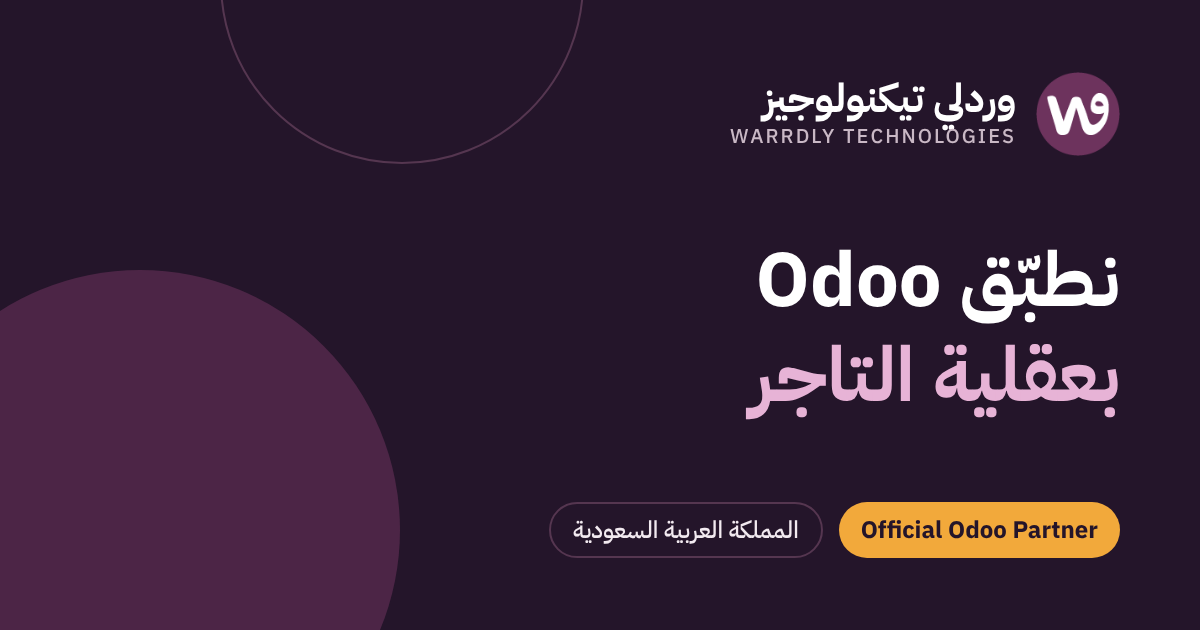
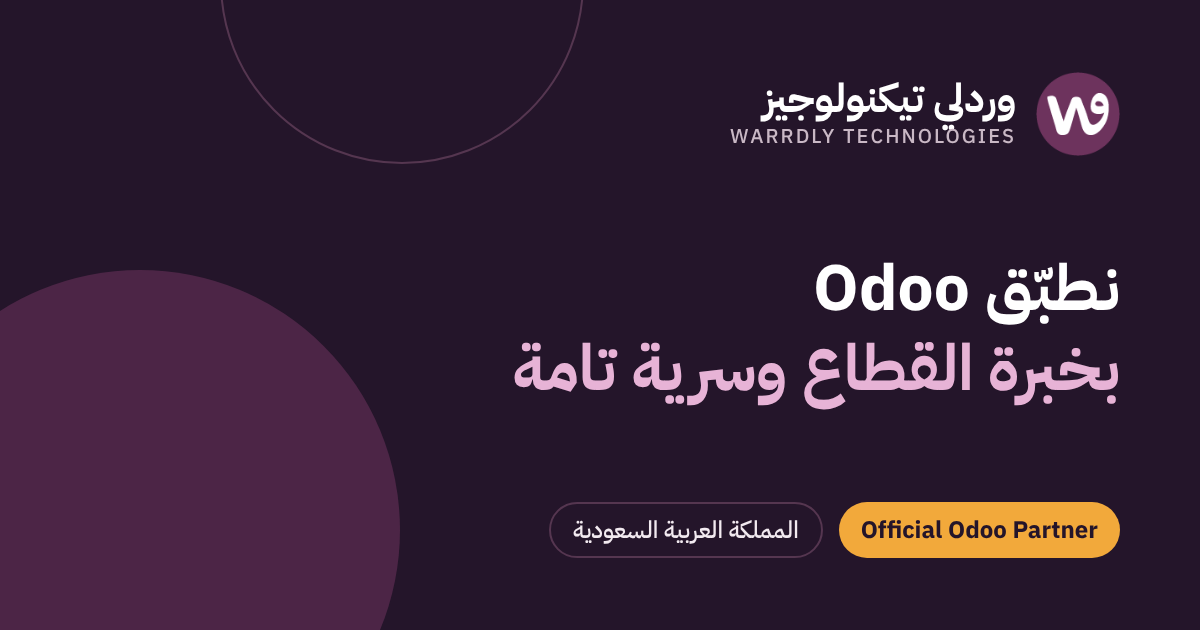
Reposition from 'traders' to expertise + confidentiality
- New hero message: sector expertise and full confidentiality, NDA/ownership points
- Replace own-company case study with a Trust & Confidentiality section
  (NDA, system in client's name, limited access, audit log, test data, no sharing)
- Remove 'we are traders / our own business' wording from integrations,
  ready-built solutions, blog and services; anonymize client projects
- Regenerate share image with the new message

Claude-Session: https://claude.ai/code/session_01CvUouUPrWfJVDr9e9r4b2b

Changed region(s): [[0.4317, 0.5429, 0.9558, 0.6635], [0.6167, 0.3921, 0.9558, 0.5127]]

diff --git a/content/capabilities.ts b/content/capabilities.ts
@@ -50,12 +50,12 @@ export const capAr: Capabilities = {
   home: {
     eyebrow: "المنصات والتكاملات",
     title: "كل قنوات بيعك في مخزون واحد",
-    text: "نربط Odoo بمنصات البيع الكبرى في السعودية والخليج، فتصل الطلبات تلقائياً، ويتحدّث المخزون والأسعار على كل منصة من مكان واحد. هذه التكاملات طوّرناها ونشغّلها يومياً في أعمالنا.",
+    text: "نربط Odoo بمنصات البيع الكبرى في السعودية والخليج، فتصل الطلبات تلقائياً، ويتحدّث المخزون والأسعار على كل منصة من مكان واحد. هذه التكاملات طوّرناها واختبرناها في بيئات تشغيل فعلية.",
     channels: ["أمازون", "نون", "ترينديول", "سلة", "زد", "وردلي B2B", "Google Shopping", "أرامكس", "J&T Express"],
     cta: "تفاصيل التكاملات",
     addonsEyebrow: "حلول طوّرناها",
     addonsTitle: "أدوات جاهزة تضيفها إلى Odoo",
-    addonsText: "مديولات بنيناها لاحتياجات شركات التوزيع في السعودية، ونستخدمها في عملياتنا اليومية قبل أن نقدمها لعملائنا.",
+    addonsText: "مديولات طوّرناها لاحتياجات شركات التوزيع في السعودية، واختُبرت في تشغيل فعلي قبل أن نقدمها لعملائنا.",
     addonsCta: "استعرض الحلول الجاهزة",
   },
   integrations: {
@@ -65,7 +65,7 @@ export const capAr: Capabilities = {
     eyebrow: "التكاملات",
     title: "اربط Odoo بكل منصة تبيع عليها",
     intro:
-      "طوّرنا تكاملات Odoo مع أهم منصات التجارة الإلكترونية وشركات الشحن في السعودية، ونشغّلها يومياً في أعمالنا. النتيجة: مخزون واحد، وأسعار موحّدة، وطلبات تدخل النظام دون إدخال يدوي.",
+      "طوّرنا تكاملات Odoo مع أهم منصات التجارة الإلكترونية وشركات الشحن في السعودية، واختبرناها في بيئات تشغيل فعلية. النتيجة: مخزون واحد، وأسعار موحّدة، وطلبات تدخل النظام دون إدخال يدوي.",
     stats: [
       { value: "7", label: "منصات بيع ومتاجر" },
       { value: "2", label: "شركات شحن" },
@@ -258,9 +258,9 @@ export const capAr: Capabilities = {
     metaDescription:
       "مديولات Odoo طوّرناها لشركات التوزيع في السعودية: اعتماد البيع حسب هامش الربح، توقّع المشتريات، الجرد الآمن، تقييم الأداء، وتطبيقات الجوال.",
     eyebrow: "حلولنا الجاهزة",
-    title: "أدوات طوّرناها لأننا احتجناها",
+    title: "أدوات مُجرّبة في التشغيل الفعلي",
     intro:
-      "كل حل في هذه الصفحة بدأ بمشكلة واجهناها في شركة توزيع حقيقية. بنيناه على Odoo، وشغّلناه في عملياتنا اليومية، ثم أصبح جاهزاً لعملائنا.",
+      "كل حل في هذه الصفحة طُوّر لمعالجة مشكلة حقيقية لدى شركات التوزيع السعودية، واختُبر في بيئة تشغيل فعلية قبل أن نقدمه لعملائنا.",
     note: "نهيّئ كل حل على طريقة عمل شركتك، ويمكن تطويره حسب احتياجك.",
     groups: [
       {
@@ -425,12 +425,12 @@ export const capEn: Capabilities = {
   home: {
     eyebrow: "Platforms & integrations",
     title: "Every sales channel on one inventory",
-    text: "We connect Odoo to the major marketplaces in Saudi Arabia and the Gulf, so orders flow in automatically and stock and prices update on every platform from one place. We built these integrations and run them every day in our own business.",
+    text: "We connect Odoo to the major marketplaces in Saudi Arabia and the Gulf, so orders flow in automatically and stock and prices update on every platform from one place. We built these integrations and tested them in live operations.",
     channels: ["Amazon", "noon", "Trendyol", "Salla", "Zid", "Warrdly B2B", "Google Shopping", "Aramex", "J&T Express"],
     cta: "Integration details",
     addonsEyebrow: "Built by us",
     addonsTitle: "Ready-made tools you can add to Odoo",
-    addonsText: "Modules we built for Saudi distribution companies and use in our own daily operations before offering them to clients.",
+    addonsText: "Modules we built for Saudi distribution companies and proved in live operations before offering them to clients.",
     addonsCta: "Browse ready-built solutions",
   },
   integrations: {
@@ -440,7 +440,7 @@ export const capEn: Capabilities = {
     eyebrow: "Integrations",
     title: "Connect Odoo to every platform you sell on",
     intro:
-      "We built Odoo integrations with the leading e-commerce platforms and couriers in Saudi Arabia, and we run them every day in our own business. The result: one inventory, consistent prices, and orders that reach the system with no manual entry.",
+      "We built Odoo integrations with the leading e-commerce platforms and couriers in Saudi Arabia, and tested them in live operations. The result: one inventory, consistent prices, and orders that reach the system with no manual entry.",
     stats: [
       { value: "7", label: "Marketplaces & stores" },
       { value: "2", label: "Couriers" },
@@ -617,9 +617,9 @@ export const capEn: Capabilities = {
     metaDescription:
       "Odoo modules we built for Saudi distributors: margin-based sales approval, purchase forecasting, secure stock counts, KPI evaluation and mobile apps.",
     eyebrow: "Ready-built solutions",
-    title: "Tools we built because we needed them",
+    title: "Tools proven in live operations",
     intro:
-      "Every solution on this page started with a problem we faced in a real distribution company. We built it on Odoo, ran it in our own daily operations, and now it's ready for our clients.",
+      "Every solution on this page was built to solve a real problem for Saudi distribution companies, and tested in live operations before we offered it to clients.",
     note: "We configure each solution to how your company works, and can extend it to your needs.",
     groups: [
       {

diff --git a/content/digital.ts b/content/digital.ts
@@ -41,7 +41,7 @@ export const digitalAr: DigitalContent = {
   eyebrow: "الخدمات التقنية",
   title: "شريكك التقني من الفكرة حتى الإطلاق",
   intro:
-    "إلى جانب Odoo، نصمم ونطوّر المواقع والمتاجر الإلكترونية ومنصات الأعمال وتطبيقات الجوال، ونربطها بأنظمتك لتعمل كمنظومة واحدة. بنينا منصة وردلي B2B وتطبيقات جاسمين بيوتي، ونقدم الخبرة نفسها لعملائنا.",
+    "إلى جانب Odoo، نصمم ونطوّر المواقع والمتاجر الإلكترونية ومنصات الأعمال وتطبيقات الجوال، ونربطها بأنظمتك لتعمل كمنظومة واحدة. بنينا منصات B2B وتطبيقات جوال تعمل يومياً في السوق السعودي.",
   primary: "ناقش مشروعك",
   secondary: "استعرض أعمالنا",
   pillars: [
@@ -139,7 +139,7 @@ export const digitalAr: DigitalContent = {
     },
   ],
   workTitle: "من أعمالنا",
-  workIntro: "منتجات بنيناها ونشغّلها يومياً، وليست مجرد نماذج عرض.",
+  workIntro: "منتجات تعمل في السوق فعلياً. نعرض مشاريع العملاء دون أسماء أو بيانات، التزاماً بالسرية.",
   work: [
     {
       name: "منصة وردلي B2B",
@@ -149,13 +149,13 @@ export const digitalAr: DigitalContent = {
       url: "https://warrdly.com",
     },
     {
-      name: "تطبيق جاسمين بيوتي B2B",
+      name: "تطبيق B2B لموزّع منتجات تجميل",
       type: "تطبيق جوال لعملاء الجملة",
       text: "تطبيق للعملاء التجاريين: كتالوج بأسعار العميل، سلة وطلبات، مرتجعات، كشف حساب، دفع إلكتروني، وتتبّع شحنات أرامكس وJ&T.",
       tags: ["تطبيق جوال", "واجهة API", "شحن ودفع"],
     },
     {
-      name: "تطبيق بوابة الموظفين",
+      name: "تطبيق موظفين لشركة توزيع",
       type: "تطبيق جوال داخلي",
       text: "حضور من الجوال مع التحقق برمز QR لموقع العمل، تتبّع مسار المناديب، مهام وموافقات، ومؤشرات أداء المبيعات.",
       tags: ["تطبيق جوال", "موارد بشرية", "Odoo"],
@@ -209,7 +209,7 @@ export const digitalEn: DigitalContent = {
   eyebrow: "Technology services",
   title: "Your technology partner from idea to launch",
   intro:
-    "Beyond Odoo, we design and build websites, online stores, business platforms and mobile apps, and connect them to your systems so everything works as one. We built the Warrdly B2B marketplace and Jasmine Beauty's apps, and we bring the same experience to our clients.",
+    "Beyond Odoo, we design and build websites, online stores, business platforms and mobile apps, and connect them to your systems so everything works as one. We have built B2B platforms and mobile apps that run every day in the Saudi market.",
   primary: "Discuss your project",
   secondary: "See our work",
   pillars: [
@@ -235,11 +235,11 @@ export const digitalEn: DigitalContent = {
     { key: "consulting", icon: "cap", title: "Technology consulting", text: "We help you choose the right technology before you spend on it.", items: ["Current systems assessment", "Digital transformation roadmap", "Platform and vendor selection", "Project requirements writing"] },
   ],
   workTitle: "Our work",
-  workIntro: "Products we built and run every day — not just demos.",
+  workIntro: "Products running in the market today. Client projects are shown without names or data, in line with our confidentiality commitment.",
   work: [
     { name: "Warrdly B2B marketplace", type: "Wholesale marketplace", text: "A health and beauty wholesale platform serving shops and pharmacies in Saudi Arabia and the Gulf, connected to Odoo for stock, price and order sync.", tags: ["Web platform", "B2B", "Odoo integration"], url: "https://warrdly.com" },
-    { name: "Jasmine Beauty B2B app", type: "Mobile app for wholesale customers", text: "An app for business customers: catalog at customer prices, cart and orders, returns, statements, online payment and Aramex/J&T shipment tracking.", tags: ["Mobile app", "API", "Shipping & payments"] },
-    { name: "Employee portal app", type: "Internal mobile app", text: "Mobile attendance with worksite QR verification, sales rep route tracking, tasks and approvals, and sales KPIs.", tags: ["Mobile app", "HR", "Odoo"] },
+    { name: "B2B app for a beauty distributor", type: "Mobile app for wholesale customers", text: "An app for business customers: catalog at customer prices, cart and orders, returns, statements, online payment and Aramex/J&T shipment tracking.", tags: ["Mobile app", "API", "Shipping & payments"] },
+    { name: "Employee app for a distribution company", type: "Internal mobile app", text: "Mobile attendance with worksite QR verification, sales rep route tracking, tasks and approvals, and sales KPIs.", tags: ["Mobile app", "HR", "Odoo"] },
     { name: "Warrdly Technologies website", type: "Bilingual company website", text: "The site you're browsing: Arabic and English, fast, search-optimized, with an interactive assessment and CRM-connected forms.", tags: ["Website", "SEO", "CRM integration"] },
   ],
   stackTitle: "Technologies we work with",

diff --git a/content/ar.ts b/content/ar.ts
@@ -26,12 +26,12 @@ export const ar = {
   hero: {
     badge: "Official Odoo Partner",
     title1: "نطبّق Odoo",
-    title2: "بعقلية التاجر",
+    title2: "بخبرة القطاع وسرية تامة",
     subtitle:
-      "نحن تجار قبل أن نكون شركة تقنية. نعرف المستودع والمندوب والفاتورة الضريبية لأننا نعيشها كل يوم، ولهذا نبني لك نظام Odoo يعمل من اليوم الأول.",
+      "فريق متخصص في قطاعات التوزيع والجملة والتجزئة. نفهم دورة عملك من المستودع إلى الفاتورة الضريبية، ونبني لك نظام Odoo يعمل من اليوم الأول، مع التزام كامل بسرية بياناتك.",
     primary: "احجز استشارة مجانية",
     secondary: "اختبر جاهزية شركتك",
-    points: ["فريق سعودي يتحدث لغتك", "متوافق مع هيئة الزكاة والضريبة والجمارك", "دعم مستمر بعد الإطلاق"],
+    points: ["اتفاقية سرية (NDA) مع كل عميل", "نظامك وبياناتك ملكك بالكامل", "متوافق مع هيئة الزكاة والضريبة والجمارك"],
   },
   dashboard: {
     title: "لوحة المبيعات والمخزون",
@@ -73,7 +73,7 @@ export const ar = {
       title: "التجميل والعناية الشخصية",
       short: "تتبّع التشغيلات وتواريخ الصلاحية، العروض الترويجية، وإدارة الوكالات والعلامات.",
       intro:
-        "نعمل في قطاع التجميل منذ سنوات، ونعرف أن الصلاحية والتشغيلة والعرض الترويجي هي ما يصنع الربح أو الخسارة. نهيّئ Odoo على هذه التفاصيل.",
+        "خبرتنا في قطاع التجميل علّمتنا أن الصلاحية والتشغيلة والعرض الترويجي هي ما يصنع الربح أو الخسارة. نهيّئ Odoo على هذه التفاصيل.",
       challenges: [
         "منتجات قاربت صلاحيتها على الانتهاء دون تنبيه مبكر",
         "صعوبة تتبّع التشغيلة عند سحب منتج أو شكوى عميل",
@@ -168,10 +168,18 @@ export const ar = {
     ],
   },
   caseStudy: {
-    eyebrow: "من تجربتنا",
-    title: "جاسمين بيوتي: شركة توزيع تجميل تدير أعمالها على Odoo",
-    text: "جاسمين بيوتي للتجارة شركة توزيع منتجات تجميل وعناية شخصية في جدة، تدير مبيعاتها ومستودعاتها وفواتيرها على Odoo. ما نتعلمه من تشغيلها كل يوم هو ما ننقله إلى عملائنا: حلول مجرّبة في السوق السعودي، لا نظريات.",
-    cta: "تحدث معنا عن تجربتك",
+    eyebrow: "الثقة والسرية",
+    title: "بياناتك أمانة، ونظامك ملكك",
+    text: "نعرف أن أرقام المبيعات والتكاليف والعملاء هي أهم أسرار أي شركة. لذلك نعمل وفق التزامات واضحة ومكتوبة قبل أن نطّلع على أي بيانات.",
+    cta: "اطلب نموذج اتفاقية السرية",
+    items: [
+      { icon: "shield", title: "اتفاقية سرية قبل البدء", text: "نوقّع اتفاقية عدم إفصاح (NDA) قبل الاطلاع على أي بيانات أو أنظمة لديك." },
+      { icon: "box", title: "النظام باسمك أنت", text: "اشتراك Odoo وقاعدة البيانات مسجّلان باسم شركتك، ولك كامل الملكية والتحكم." },
+      { icon: "gear", title: "صلاحيات محدودة ومؤقتة", text: "يعمل على مشروعك الفريق المكلّف به فقط، وتُلغى صلاحياتنا عند التسليم أو متى طلبت." },
+      { icon: "check", title: "كل دخول مُسجّل", text: "يحتفظ النظام بسجل لكل من دخل وما عدّله، وتستطيع مراجعته في أي وقت." },
+      { icon: "swap", title: "بيانات اختبار لا بيانات حقيقية", text: "نطوّر ونختبر على نسخ مموّهة كلما أمكن، ولا ننقل بياناتك خارج بيئتك." },
+      { icon: "code", title: "لا نشارك بياناتك أبداً", text: "لا نستخدم بيانات أي عميل في مشروع آخر، ولا نعرض أسماء عملائنا أو أرقامهم دون إذن مكتوب." },
+    ],
   },
   integrations: {
     title: "نربط Odoo بالأدوات التي تستخدمها في السوق السعودي",

diff --git a/content/en.ts b/content/en.ts
@@ -28,12 +28,12 @@ export const en: Dict = {
   hero: {
     badge: "Official Odoo Partner",
     title1: "We implement Odoo",
-    title2: "with a trader's mindset",
+    title2: "with expertise and confidentiality",
     subtitle:
-      "We were traders before we were a tech company. We know the warehouse, the sales rep and the tax invoice because we live them every day — so we build you an Odoo system that works from day one.",
+      "A team specialized in distribution, wholesale and retail. We understand your cycle from the warehouse to the tax invoice and build you an Odoo system that works from day one — with a full commitment to keeping your data confidential.",
     primary: "Book a free consultation",
     secondary: "Take the readiness test",
-    points: ["A Saudi team that speaks your language", "ZATCA compliant", "Ongoing support after go-live"],
+    points: ["An NDA with every client", "Your system and data are fully yours", "ZATCA compliant"],
   },
   dashboard: {
     title: "Sales & inventory dashboard",
@@ -75,7 +75,7 @@ export const en: Dict = {
       title: "Beauty & Personal Care",
       short: "Lot and expiry tracking, promotions, and agency and brand management.",
       intro:
-        "We have worked in beauty distribution for years, and we know that expiry dates, lots and promotions make the difference between profit and loss. We configure Odoo around those details.",
+        "Our experience in the beauty sector taught us that expiry dates, lots and promotions make the difference between profit and loss. We configure Odoo around those details.",
       challenges: [
         "Products nearing expiry with no early warning",
         "Hard to trace lots for recalls or customer complaints",
@@ -170,10 +170,18 @@ export const en: Dict = {
     ],
   },
   caseStudy: {
-    eyebrow: "From our own experience",
-    title: "Jasmine Beauty: a beauty distributor running its business on Odoo",
-    text: "Jasmine Beauty Trading is a beauty and personal care distributor in Jeddah that runs its sales, warehouses and invoicing on Odoo. What we learn from operating it every day is what we bring to our clients: solutions proven in the Saudi market, not theory.",
-    cta: "Talk to us about your business",
+    eyebrow: "Trust & confidentiality",
+    title: "Your data is held in trust, and your system is yours",
+    text: "We know that sales figures, costs and customer lists are a company's most sensitive information. That's why we work under clear, written commitments before we see any data.",
+    cta: "Request our NDA template",
+    items: [
+      { icon: "shield", title: "An NDA before we start", text: "We sign a non-disclosure agreement before accessing any of your data or systems." },
+      { icon: "box", title: "The system is in your name", text: "The Odoo subscription and database are registered to your company, with full ownership and control." },
+      { icon: "gear", title: "Limited, temporary access", text: "Only the team assigned to your project works on it, and our access is revoked at handover or whenever you ask." },
+      { icon: "check", title: "Every login is logged", text: "The system records who signed in and what they changed, and you can review it at any time." },
+      { icon: "swap", title: "Test data, not real data", text: "Wherever possible we build and test on anonymized copies, and never move your data outside your environment." },
+      { icon: "code", title: "We never share your data", text: "We never use one client's data on another project, and never publish client names or figures without written permission." },
+    ],
   },
   integrations: {
     title: "We connect Odoo to the tools you use in the Saudi market",

diff --git a/content/blog.ts b/content/blog.ts
@@ -226,7 +226,7 @@ export const posts: Post[] = [
           type: "p",
           text: "أمازون ونون يقدمان نموذجين: أن تشحن الطلب من مستودعك، أو أن تخزّن بضاعتك في مستودعات المنصة وتتولى هي الشحن (FBA في أمازون وFBN في نون). في Odoo نفصل كل نموذج في مستودع مستقل، فتعرف بدقة ما هو موجود عندك وما هو موجود لدى المنصة، وتُسجَّل الشحنات المرسلة إلى المنصة كتحويلات مخزنية واضحة.",
         },
-        { type: "h2", text: "نصائح من تجربتنا اليومية" },
+        { type: "h2", text: "نصائح عملية من مشاريع التكامل" },
         {
           type: "ul",
           items: [
@@ -239,7 +239,7 @@ export const posts: Post[] = [
         },
         {
           type: "note",
-          text: "نحن نبيع على أمازون ونون وترينديول وسلة من Odoo كل يوم، والتكاملات التي نقدمها لعملائنا هي نفسها التي نشغّلها في أعمالنا.",
+          text: "التكاملات التي نقدمها مع أمازون ونون وترينديول وسلة اختُبرت في بيئات تشغيل فعلية، وكل تكامل يُنفّذ على حسابات العميل نفسه وبصلاحيات محدودة.",
         },
         { type: "h2", text: "متى تحتاج التكامل؟" },
         {
@@ -275,7 +275,7 @@ export const posts: Post[] = [
           type: "p",
           text: "Amazon and noon both offer two models: you ship from your own warehouse, or you store stock in the platform's warehouses and they ship (FBA on Amazon, FBN on noon). In Odoo we model each as a separate warehouse, so you know exactly what you hold and what the platform holds, and shipments to the platform are clear stock transfers.",
         },
-        { type: "h2", text: "Tips from daily operation" },
+        { type: "h2", text: "Practical tips from integration projects" },
         {
           type: "ul",
           items: [
@@ -288,7 +288,7 @@ export const posts: Post[] = [
         },
         {
           type: "note",
-          text: "We sell on Amazon, noon, Trendyol and Salla from Odoo every day. The integrations we offer clients are the same ones we run in our own business.",
+          text: "Our Amazon, noon, Trendyol and Salla integrations are proven in live operations, and every integration runs on the client's own accounts with limited access.",
         },
         { type: "h2", text: "When do you need it?" },
         {

diff --git a/app/[locale]/page.tsx b/app/[locale]/page.tsx
@@ -229,17 +229,37 @@ export default async function Home({ params }: { params: Promise<{ locale: strin
         </Container>
       </section>
 
-      {/* Case study */}
-      <section id="case" className="scroll-mt-24 bg-transparent">
-        <Container className="py-20 sm:py-24">
-          <div className="flex flex-col gap-5 rounded-3xl glass-tint p-8 sm:p-14">
-            <span className="text-[15px] font-semibold text-plum-dark">{d.caseStudy.eyebrow}</span>
-            <h2 className="max-w-[820px] text-2xl font-bold leading-snug sm:text-4xl">{d.caseStudy.title}</h2>
-            <p className="max-w-[820px] text-lg text-[#3E3242]">{d.caseStudy.text}</p>
-            <div>
-              <TextLink href={`${base}/contact`}>{d.caseStudy.cta}</TextLink>
+      {/* Trust & confidentiality */}
+      <section id="trust" className="scroll-mt-24 bg-transparent">
+        <Container className="flex flex-col gap-10 py-20 sm:py-24">
+          <div className="grid grid-cols-1 items-end gap-6 lg:grid-cols-[1.1fr_1fr]">
+            <div className="flex flex-col gap-3">
+              <Eyebrow>{d.caseStudy.eyebrow}</Eyebrow>
+              <h2 className="text-3xl font-bold leading-snug text-ink sm:text-[40px]">{d.caseStudy.title}</h2>
+            </div>
+            <div className="flex flex-col gap-3">
+              <p className="text-lg text-muted">{d.caseStudy.text}</p>
+              <div>
+                <TextLink href={`${base}/contact`}>{d.caseStudy.cta}</TextLink>
+              </div>
             </div>
           </div>
+          <ul className="panel grid grid-cols-1 overflow-hidden rounded-xl sm:grid-cols-2 lg:grid-cols-3">
+            {d.caseStudy.items.map((it, i) => (
+              <li
+                key={it.title}
+                className={`flex gap-4 border-line p-6 sm:p-7 ${i > 0 ? "border-t sm:border-t-0" : ""} ${i % 2 === 1 ? "sm:border-s" : ""} ${i >= 2 ? "sm:border-t" : ""} ${i % 3 !== 0 ? "lg:border-s" : "lg:border-s-0"} ${i >= 3 ? "lg:border-t" : "lg:border-t-0"}`}
+              >
+                <span className="flex h-10 w-10 flex-none items-center justify-center rounded-lg bg-ink text-gold">
+                  <Icon name={it.icon} size={20} stroke={1.8} />
+                </span>
+                <div className="flex flex-col gap-1.5">
+                  <h3 className="text-[17px] font-bold text-ink">{it.title}</h3>
+                  <p className="text-[15px] leading-relaxed text-muted">{it.text}</p>
+                </div>
+              </li>
+            ))}
+          </ul>
         </Container>
       </section>
 
